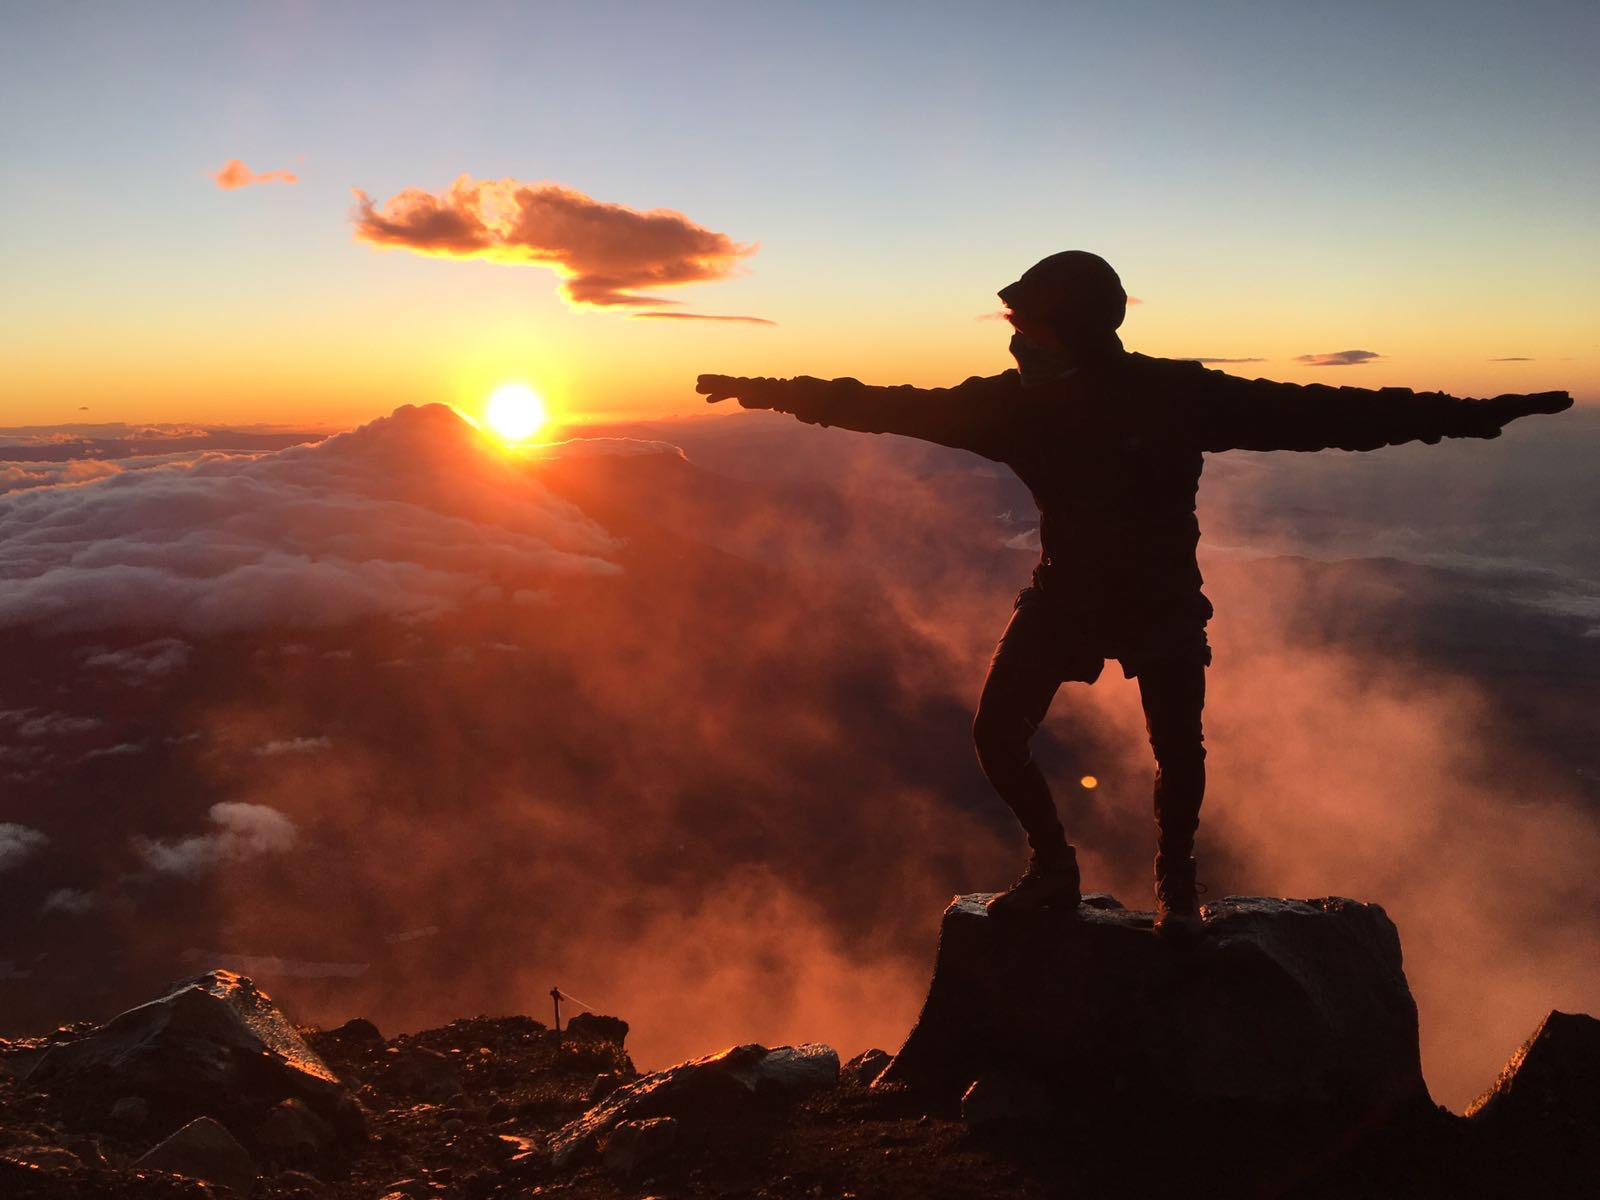
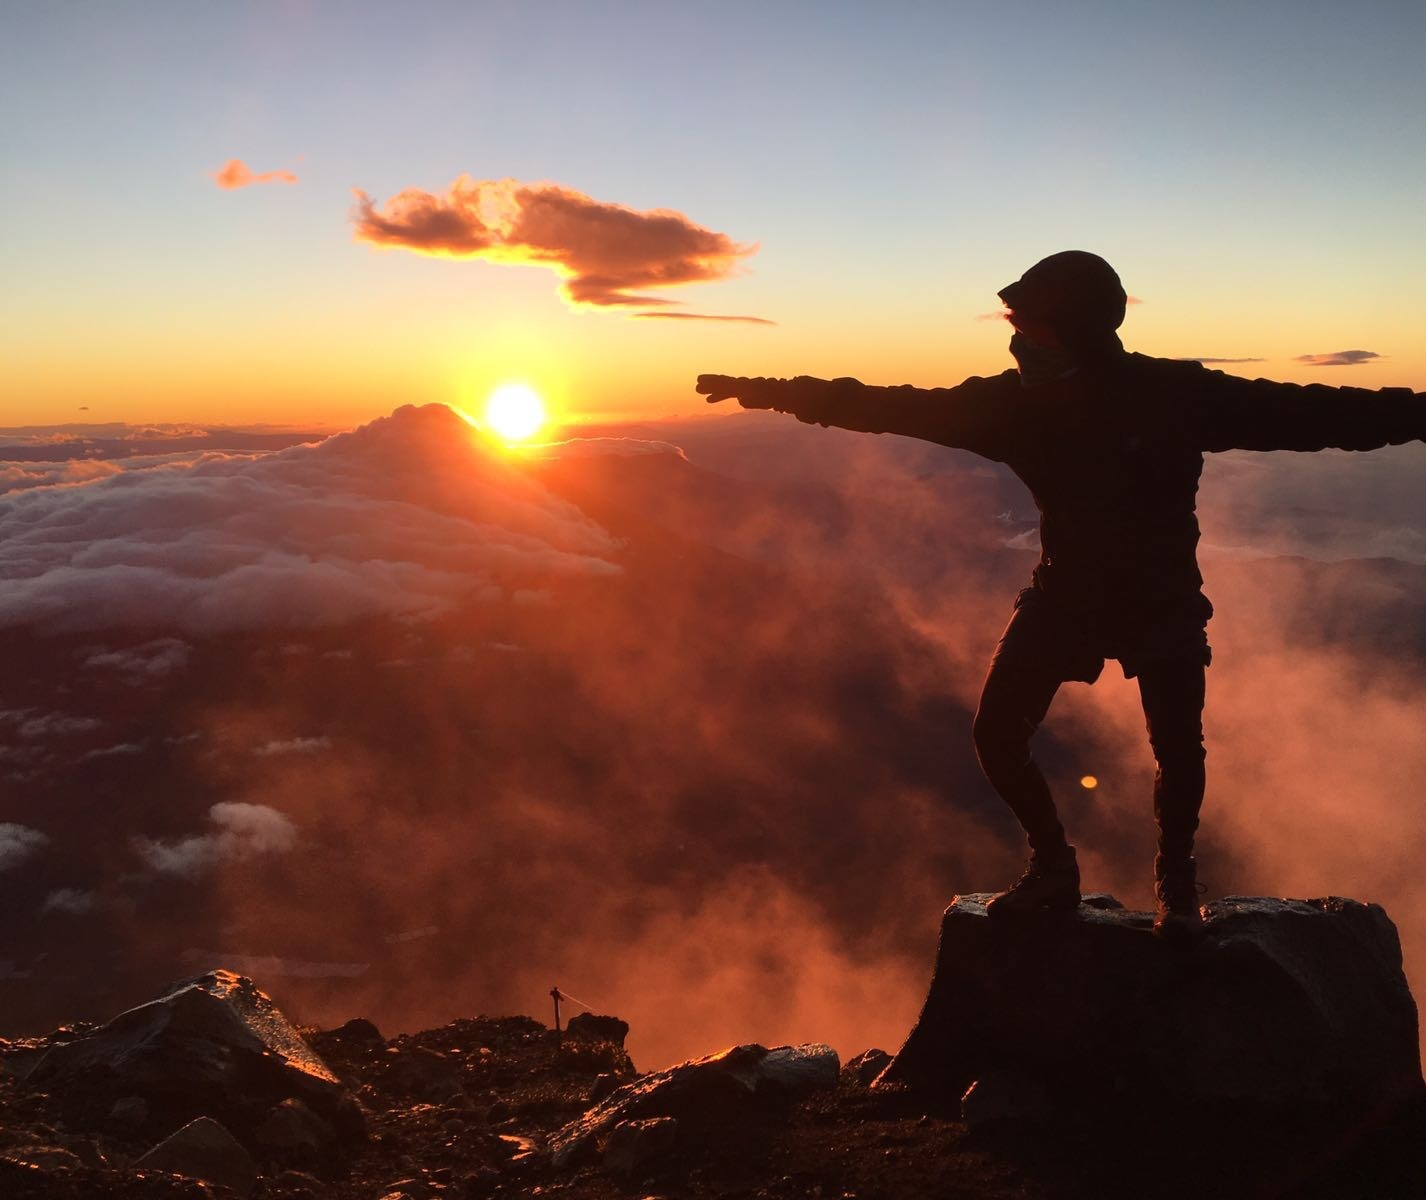
Add css for hero content and remove slide animation

diff --git a/index.js b/index.js
@@ -1,16 +1,18 @@
 const heroContentSection = document.querySelector(".hero__section");
 const heroContentDiv = document.querySelector(".hero__div-content");
 const heroImageDiv = document.querySelector(".hero__div-image");
-const heroH1Text = document.querySelector(".hero__h1-1");
-const heroH2Text = document.querySelector(".hero__h1-2");
-const heroH3Text = document.querySelector(".hero__h1-3");
-const heroH4Text = document.querySelector(".hero__h1-4");
-
 
 const heroDetailsArr = [
   "{",
-  "name: Joe Jackson",
-  "jobTitle: Full Stack Developer",
+  '"name": "Joe Jackson",',
+  '"jobTitle": "Full Stack Developer",',
+  '"language": "JavaScript",',
+  '"mainStack": [',
+  '"React",',
+  '"Express",',
+  '"PostgreSQL",',
+  '"Node.js"',
+  ']',
   "}",
 ];
 
@@ -20,9 +22,9 @@ function betterCallback(arr, index) {
   const currentElement = arr[index];
 
   const newHeadingElement = document.createElement("H1");
-  newHeadingElement.classList.add(`heading-line-${index}`);
+  newHeadingElement.classList.add(`hero__h1--${index}`);
   heroContentDiv.appendChild(newHeadingElement);
-  const headingDomElement = document.querySelector(`.heading-line-${index}`);
+  const headingDomElement = document.querySelector(`.hero__h1--${index}`);
 
   let j = 0;
   const elementLength = currentElement.length;
@@ -32,7 +34,7 @@ function betterCallback(arr, index) {
       j++;
       setTimeout(() => {
         typer();
-      }, 50);
+      }, 40);
     } else {
       betterCallback(arr, newIndex);
     }
@@ -50,31 +52,3 @@ setTimeout(() => {
 setTimeout(() => {
   betterCallback(heroDetailsArr, 0);
 }, 3000);
-
-// This function uses text content
-// The problem is not sure how to add nbs with this for object formatting
-// function betterCallback(arr, index) {
-//   if (index >= arr.length) return;
-//   const newIndex = index + 1;
-//   const currentElement = arr[index];
-
-//   const newHeadingElement = document.createElement("H1");
-//   newHeadingElement.classList.add(`heading-line-${index}`);
-//   heroContentDiv.appendChild(newHeadingElement);
-//   const headingDomElement = document.querySelector(`.heading-line-${index}`);
-
-//   let j = 0;
-//   const elementLength = currentElement.length;
-//   function typer() {
-//     if (j < elementLength) {
-//       headingDomElement.textContent += currentElement[j];
-//       j++;
-//       setTimeout(() => {
-//         typer();
-//       }, 50);
-//     } else {
-//       betterCallback(arr, newIndex);
-//     }
-//   }
-//   typer();
-// }

diff --git a/index.css b/index.css
@@ -18,72 +18,77 @@ body {
     max-width: 95vw;
     margin: 0 auto;
     font-family: Arial, Helvetica, sans-serif;
+    font-size: 16px;
 }
 
 a {
     color: inherit;
     text-decoration: none;
-    font-size: inherit;
+    font-size: inherit;    
 }
 
-span {
-    padding-left: 5px;
-    background: pink;
-}
 
-.nav__header {
+
+header, footer {
     display: flex;
-    align-items: center;
-    height: 5vh;
+    align-items: center;    
+    font-size: 1.5rem;
 
+}
+
+footer {
+    padding: 0.5rem;
+    justify-content: space-between;
 }
 
 .hero__section {
     display: flex;
-    /* justify-content: center;
-    align-items: center; */
-    /* background:  linear-gradient(90deg, var(--bg) 70%, var(--primary) 70%);  */
     height: 80vh;
-    background-image: url(./img/hero-1.JPG);
-    background-size: contain;
-    background-position: right;
-    transition: var(--animation-props);
-}
-
-.hero__section--loaded {
-    filter: grayscale(90%);
 }
 
 .hero__div-content {
     background: var(--bg);
-    width: 35%;
+    width: 50%;
+    padding: 1rem;
     transition: var(--animation-props);
 }
 
-.hero__div-image {    
-    width: 65%;
+.hero__div-content > h1 {
+    font-size: 1rem;
+}
+
+.hero__div-image {
+    background-image: url(./img/hero-1.JPG);
+    background-size: cover;
+    background-position: right;    
+    width: 50%;
     transition: var(--animation-props);
 }
 
-.hero__div-content--loaded {
-    width: 65%;
+.hero__div-image:hover {
+    filter: grayscale(0%);
+    transition: all 1s;
+}
+
+.hero__h1--1, .hero__h1--2, .hero__h1--3, .hero__h1--4, .hero__h1--9 {
+    padding-left: 1rem;    
+} 
+
+.hero__h1--5, .hero__h1--6, .hero__h1--7, .hero__h1--8 {
+    padding-left: 2rem;
+    color: var(--primary)
 }
 
 .hero__div-image--loaded {
-    width: 35%;
+    filter: grayscale(90%);
 }
 
-.hero__h1 {
-    display: none;
-    font-size: 3rem;
-    font-weight: bold;
-    transition: all ease 10s;
-}
 
-.hero__h1--loaded {
-    display: block;
-    color: var(--primary);
-}
+
+
+
+
+
 
 .svg-icon {
     /* Place the icon on the text baseline. */
@@ -105,17 +110,5 @@ span {
      * we can also use a transition on the fill value.
     */
    transition: fill .3s;
-}
-
-footer {
-    background-color: transparent;
-    color: black;
-    padding: 1rem;
-    font-size: 1.5rem;
-}
-
-footer {
-    display: flex;
-    justify-content: space-between;
-    width: 100%;
+   z-index: 1000;
 }

diff --git a/index.html b/index.html
@@ -8,16 +8,14 @@
   </head>
   <body>
     <header class="nav__header">
-      <a href="#">CLOUD</a>
+      <a href="./index.html">
+        <img src="./img/black-cloud.png" alt="cloud icon">
+      </a>
     </header>
 
     <section class="hero__section">
       <div class="hero__div-content">
-        <!-- <h1 class="hero__h1-1">{<br>name: Joe Jackson<br>jobTitle: Full Stack Developer<br>}</h1> -->
-        <h1 class="hero__h1-1"></h1>
-        <h1 class="hero__h1-2"></h1>
-        <h1 class="hero__h1-3"></h1>
-        <h1 class="hero__h1-4"></h1>
+        <!-- javascript -->
       </div>
       <div class="hero__div-image"></div>
     </section>
@@ -35,7 +33,7 @@
         </svg>
       </a>
 
-      <a href="#">
+      <a href="https://www.linkedin.com/in/joe-m-jackson-37709767/">
         <svg class="svg-icon" width="24" height="24" viewBox="0 0 24 24">
           <title>GitHub icon</title>
           <path
